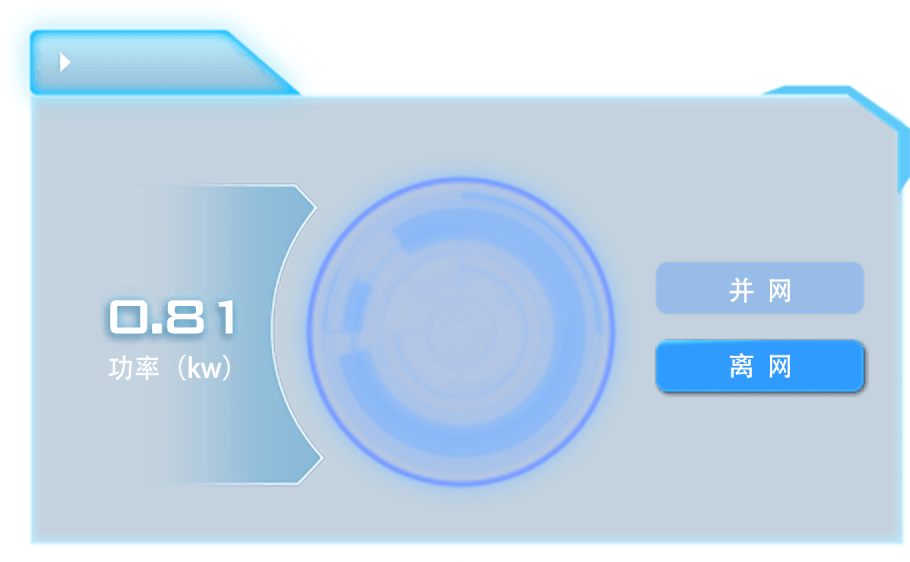
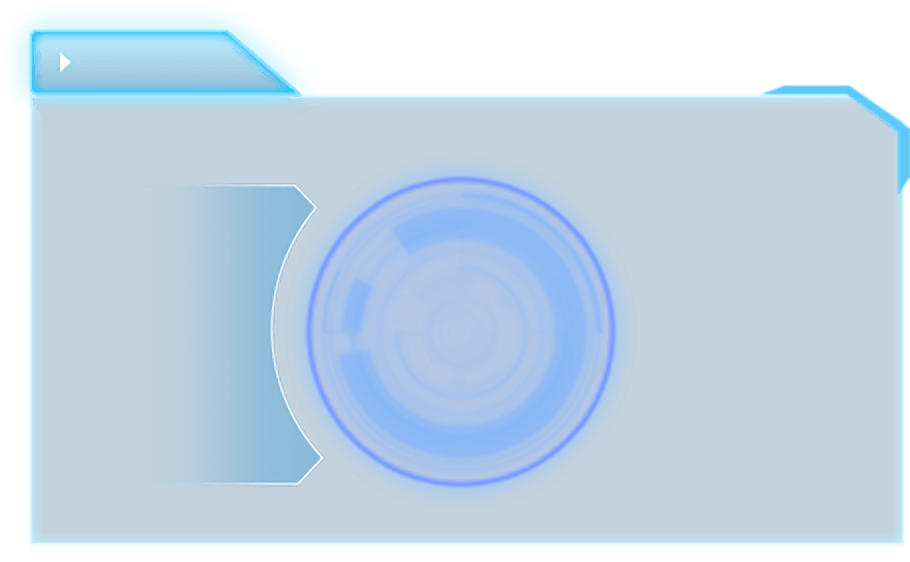
feat: 替换图片，增加字体

diff --git a/src/views/screen/data/realtime.vue b/src/views/screen/data/realtime.vue
@@ -3,7 +3,7 @@ import * as echarts from 'echarts'
 import screenConfig from '@/views/screen/config/echart.json'
 import CardHeader from '@/views/screen/components/CardHeader.vue'
 import earthBg from '@/views/screen/assets/real/elec-earth.png'
-import centerBg from '@/views/screen/assets/real/middlebg.png'
+import centerBg from '@/views/screen/assets/real/middleBg.png'
 import eleIcon from '@/views/screen/assets/real/center-elc-icon.png'
 import gfIcon from '@/views/screen/assets/real/icon-gf.png'
 import cdlIcon from '@/views/screen/assets/real/icon-cdl.png'
@@ -257,27 +257,27 @@ const handleProject = () => {
               stripe
               border
             >
-              <ElTableColumn label="电网" width="140" prop="name"  >
+              <ElTableColumn label="电网" min-width="60" prop="name"  >
                 <template #default="{row}">
                   <span class="font-bold">{{row.name}}</span>
                 </template>
               </ElTableColumn>
-              <ElTableColumn label="A" prop="voltageKey"  >
+              <ElTableColumn label="A" min-width="40" prop="voltageKey"  >
                 <template #default="{row}">
                   {{getValue(row.aValue)}}
                 </template>
               </ElTableColumn>
-              <ElTableColumn label="B" prop="electricKey"  >
+              <ElTableColumn label="B" min-width="40" prop="electricKey"  >
                 <template #default="{row}">
                   {{getValue(row.bValue)}}
                 </template>
               </ElTableColumn>
-              <ElTableColumn label="C" width="100" prop="powerKey"  >
+              <ElTableColumn label="C" min-width="40" prop="powerKey"  >
                 <template #default="{row}">
                   {{getValue(row.cValue)}}
                 </template>
               </ElTableColumn>
-              <ElTableColumn label="总" prop="powerFactorKey"  >
+              <ElTableColumn label="总" min-width="40" prop="powerFactorKey"  >
                 <template #default="{row}">
                   {{getValue(row.total, '')}}
                 </template>
@@ -380,8 +380,8 @@ const handleProject = () => {
                   <img :src="item.icon" :style="{width: item.iconWidth + 'px'}"  alt="" />
                 </div>
                 <div class="ml-8px">
-                  <div class="fw-bold">{{item.label}}</div>
-                  <div class="color-#3DBDFF fw-bold text-26px">{{getValue(item.key) || item.value}}</div>
+                  <div class="fw-bold line-height-20px">{{item.label}}</div>
+                  <div class="color-#3DBDFF font-you-she-biao-ti-hei fw-bold text-26px line-height-30px">{{getValue(item.key) || item.value || '-'}}</div>
                 </div>
               </div>
 
@@ -566,12 +566,12 @@ const handleProject = () => {
     .content_1{
       position: absolute;
       top: 16%;
-      left: 0;
+      left: -50px;
     }
     .content_2{
       position: absolute;
       top: 16%;
-      right: 0px;
+      right: -50px;
     }
     .content_3{
       position: absolute;

diff --git a/src/views/screen/data/boardView.vue b/src/views/screen/data/boardView.vue
@@ -29,10 +29,10 @@
         </div>
         <div class="value-content-2">
           <div>
-            <ElButton class="w-120px" :type="(keyValue['并网状态'] >> 4 & 1) === 1 ? 'primary' : ''">并网</ElButton>
+            <ElButton class="w-60% max-w-120px min-w-60px" :type="(keyValue['并网状态'] >> 4 & 1) === 1 ? 'primary' : ''">并网</ElButton>
           </div>
           <div>
-            <ElButton class="w-120px" :type="(keyValue['并网状态'] >> 4 & 1) === 0 ? 'primary' : ''">离网</ElButton>
+            <ElButton class="w-60% max-w-120px min-w-60px mt-8px" :type="(keyValue['并网状态'] >> 4 & 1) === 0 ? 'primary' : ''">离网</ElButton>
           </div>
         </div>
       </div>
@@ -120,7 +120,7 @@
             </div>
             <div class="ml-8px w-0 flex-1 ">
               <div class="fw-bold text-14px line-height-20px">{{item.label}}</div>
-              <div class="color-#3DBDFF fw-bold text-26px line-height-24px">{{getValue(item.key) || item.value || '-'}}</div>
+              <div class="color-#3DBDFF font-you-she-biao-ti-hei fw-bold text-26px line-height-24px">{{getValue(item.key) || item.value || '-'}}</div>
             </div>
           </div>
 
@@ -554,7 +554,7 @@ const batteryInfo = [
 
 <style lang="scss">
 .board-bg-box{
-  padding: 16px 6vw 20px;
+  padding: 32px 6vw 20px;
 }
 .board-bg{
   position: relative;
@@ -569,19 +569,19 @@ const batteryInfo = [
   font-size: 16px;
 }
 .board-pos1{
-  top: 66%;
+  top: 62%;
   left: 2%;
 }
 .board-pos2{
-  top: 66%;
+  top: 62%;
   left: 78%;
 }
 .board-pos3{
-  top: 91%;
+  top: 90%;
   left: 27%;
 }
 .board-pos4{
-  top: 92%;
+  top: 90%;
   left: 60%;
 }
 .pie-chart{
@@ -699,14 +699,15 @@ const batteryInfo = [
 }
 .value-content-1{
   position: absolute;
-  top: 48%;
+  top: 45%;
   left: 8%;
   text-align: center;
 }
 .value-content-2{
   position: absolute;
-  top: 48%;
+  top: 45%;
   right: 4%;
+  left: 63%;
   text-align: center;
 }
 .text-shadow-num{

diff --git a/src/layout/SceenLayout/index.vue b/src/layout/SceenLayout/index.vue
@@ -7,6 +7,7 @@ import { useProjectStore } from '@/store/modules/project'
 import {usePermissionStore} from "@/store/modules/permission";
 const now = ref(dayjs());
 const router = useRouter();
+
 const projectVisible = ref(false);
 
 const permissionStore = usePermissionStore();
@@ -119,7 +120,17 @@ v-for="item in projectStore.projectList"
   </section>
 </template>
 
+<style>
+@font-face {
+  font-family: "YouSheBiaoTiHei";
+  src: url('/YouSheBiaoTiHei.ttf') format("truetype");
+}
+.font-you-she-biao-ti-hei {
+  font-family: 'YouSheBiaoTiHei';
+}
+</style>
 <style scoped lang="scss">
+
   .dark{
     --el-text-color-regular: #fff;
     --el-input-text-color: #fff;
